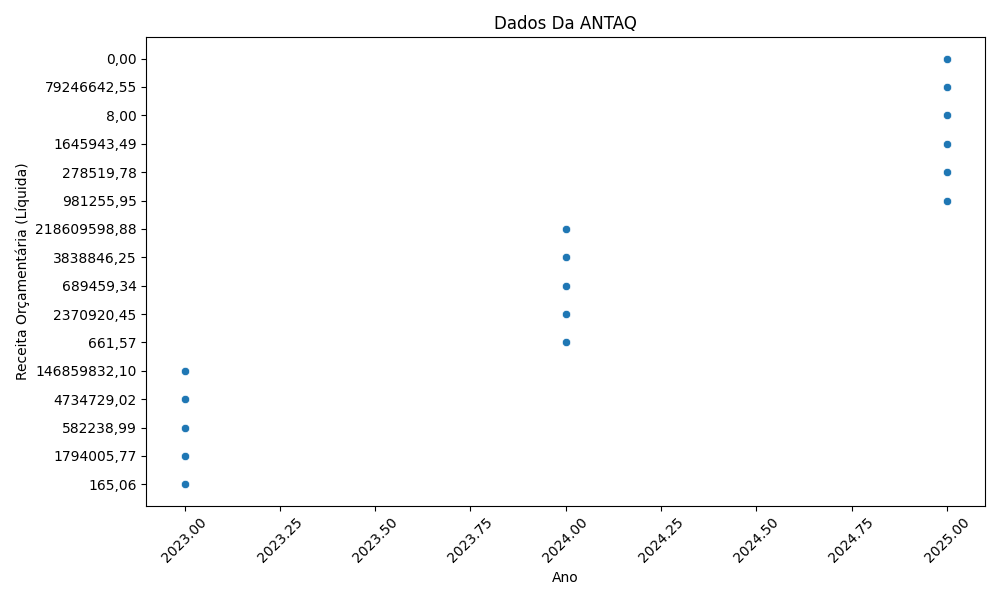
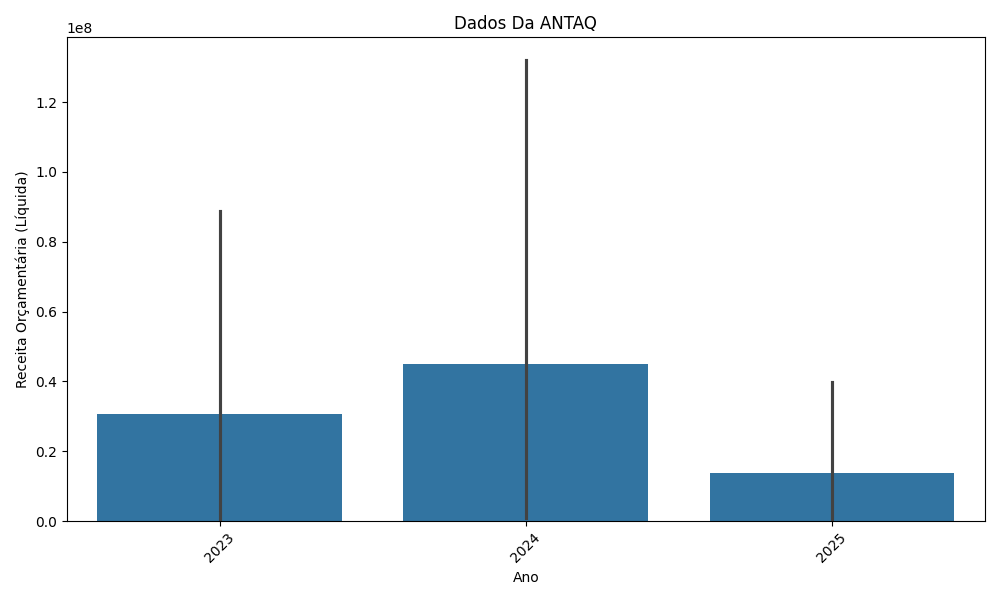
update

diff --git a/ExtraçãoAtividade5/ExtrairDados.py b/ExtraçãoAtividade5/ExtrairDados.py
@@ -12,23 +12,23 @@ explorar_dados.head()
 
 # explorar_dados.isnull().sum()
 
-
+converterReceita=explorar_dados['RECEITA ORCAMENTARIA (LIQUIDA)'].str.replace(',','.').astype(float)
 
 dashboard=explorar_dados
 
 plt.figure(figsize=(10,6))
 plt.title('Dados Da ANTAQ')
-sns.scatterplot(x="ï»¿ANO",y="RECEITA ORCAMENTARIA (LIQUIDA)",data=dashboard)
+sns.barplot(x="ï»¿ANO",y=converterReceita,data=dashboard)
 plt.xlabel("Ano")
 plt.ylabel("Receita Orçamentária (Líquida)")
 plt.xticks(rotation=45)
 plt.tight_layout()
 plt.savefig('grafico_barras.png')
 
-
+#errorbar=none 
 plt.figure(figsize=(10,6))
 plt.title('Dados Da ANTAQ')
-sns.lineplot(x="ï»¿ANO",y="RECEITA ORCAMENTARIA (LIQUIDA)",data=dashboard)
+sns.lineplot(x="ï»¿ANO",y=converterReceita,data=dashboard)
 plt.xlabel("Ano")
 plt.ylabel("Receita Orçamentária (Líquida)")
 plt.xticks(rotation=45)
@@ -36,16 +36,13 @@ plt.tight_layout()
 plt.savefig('grafico_line.png')
 
 
-plt.figure(figsize=(10,6))
-plt.title('Dados Da ANTAQ')
-sns.boxplot(x="ï»¿ANO",y="RECEITA ORCAMENTARIA (LIQUIDA)",data=dashboard)
-plt.xlabel("Ano")
-plt.ylabel("Receita Orçamentária (Líquida)")
-plt.xticks(rotation=45)
-plt.tight_layout()
-plt.savefig('grafico_box.png')
+dashboard['RECEITA ORCAMENTARIA (LIQUIDA)'] = dashboard['RECEITA ORCAMENTARIA (LIQUIDA)'].str.replace(',', '.', regex=False).astype(float)
+valor_por_Ano = dashboard.groupby('ï»¿ANO')['RECEITA ORCAMENTARIA (LIQUIDA)'].sum().sort_values(ascending=False)
 
-print(explorar_dados.isnull().sum())
-
+plt.figure(figsize=(8, 8))
+plt.pie(valor_por_Ano, labels=valor_por_Ano.index, autopct='%1.2f%%', startangle=140)
+plt.title('Distribuição da Receita Orçamentária (Líquida) por Ano')
+plt.axis('equal') 
+plt.show()
 
 
